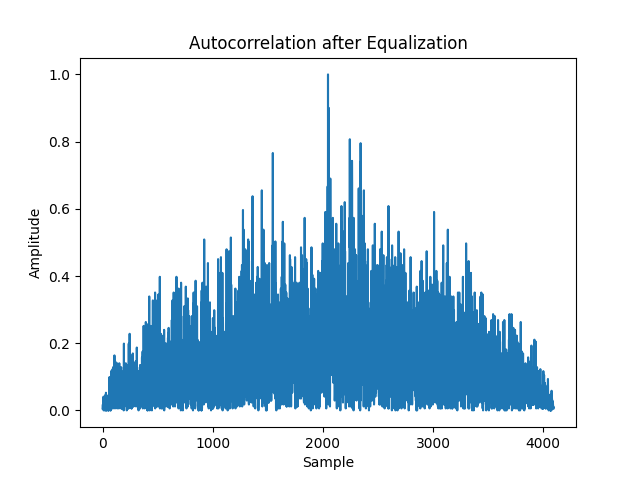
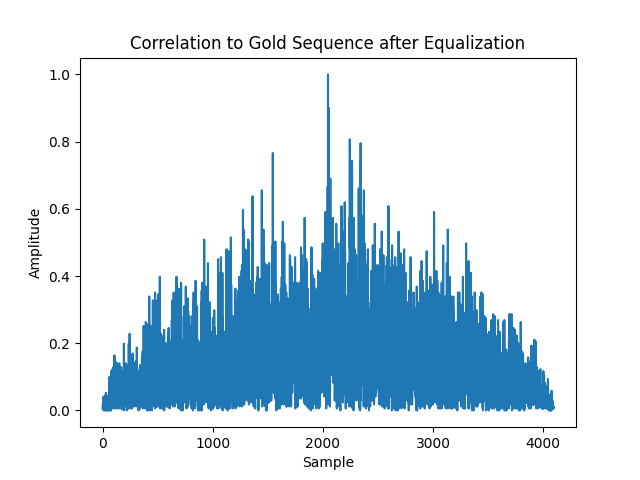
Update readme, add images for documentation, and update plot titles

Changed region(s): [[0.1875, 0.0625, 0.8125, 0.125]]

diff --git a/scripts/plot.py b/scripts/plot.py
@@ -110,7 +110,7 @@ if __name__ == "__main__":
     plot_correlation_to_reference(
         "log/equalization_results/before.csv",
         "log/gold_code_ref.csv",
-        "Autocorrelation before Equalization",
+        "Correlation to Gold Sequence before Equalization",
     )
 
     compare_plots(
@@ -124,7 +124,7 @@ if __name__ == "__main__":
     plot_correlation_to_reference(
         "log/equalization_results/after.csv",
         "log/gold_code_ref.csv",
-        "Autocorrelation after Equalization",
+        "Correlation to Gold Sequence after Equalization",
     )
 
     # plot_real_signal("log/channel_impulse_response.csv", "Channel Impulse Response")

diff --git a/README.md b/README.md
@@ -1,36 +1,51 @@
-# ECED6576 Project
+# Implementation of a Full Transmitter, Receiver, and Equalizer System in C
 
-The following readme describes the current state of the ECED6576 project and it's next steps.
+## Introduction
 
-## Work Completed
+This project is an implementation of a full transmitter, receiver, and equalizer system in C. The system is designed to transmit a QAM signal over a channel and then receive and equalize the signal. The system is designed to be modular and can be easily modified to add new features or change existing ones.
 
-### Existing code cleaned up
-- DSP.h and OFDM.h have been converted to DSP.c/h and QAM.c/h.
-- A function from another file in repo to generate gold codes has been added to DSP.
-- Functions have been added for signal struct initialization.
-- Irrelevant functions have been removed.
+## Transmitter
 
-### New code added for logging
-- Functions were written to log all custom signal structs to a file that can then be read by a python script to plot the signals.
+![Transmitter](img/TX.png)
 
-### Python logging script has been written
-- The python script reads the log file and plots the signals (complex or real).
+The transmitter is responsible for generating a QAM signal and saving it to a .wav file to be transmitted over a channel. The transmitter generates a Gold sequence to be used as a training sequence for the receiver. The transmitter then generates a QAM signal using the Gold sequence and saves it to qam.wav.
 
-## Plots
+## Channel
 
-### Gold code
+![Channel](img/test_Setup.png)
 
-![Gold code](img/gold.png)
+The channel exists between a small speaker and a larger GTI hydrophone. The channel is not inside an anechoic chamber, so there is a lot of noise present in the channel. The following plots show the signal at the transmitter and receibver, the signal FFT at the transmitter and receiver, and the signal correlation to the Gold sequence at the transmitter and receiver.
 
-### Gold code autocorrelation
+![ChannelTxandRx](img/channel_tx_rx.png)
 
-![Gold code autocorrelation](img/gold_autocorr.png)
+## Receiver
 
-### QAM signal
+![Receiver](img/RX.png)
 
-![QAM signal](img/qam.png)
+The receiver is responsible for receiving the QAM signal from the channel and equalizing it. The receiver uses the Gold sequence to estimate the channel response and then uses this estimate to equalize the received signal. The receiver then saves the equalized signal to equalized.wav.
 
-## Next Steps
-- Model channel and add realistic noise to the signal.
-- Implement equalizer.
-- Make changes for physical hardware.
+## Equalizer
+
+The equalizer is responsible for equalizing the received signal. The equalizer uses the Gold sequence to estimate the channel response and then uses this estimate to equalize the received signal. The goal of this equalization is to remove the effects of the channel and recover the original QAM signal. Correlation to the Gold Sequence is used to visually show the effectiveness of the equalization because the signal is very dense.
+
+## Initial Results
+
+![BeforeEqualization](img/autocorrelation_before_equalization.png)
+
+![AfterEqualization](img/autocorrelation_after_equalization.png)
+
+The current metric outside of correlation used to tell the effectiveness of the equalization is the error between the received signal and the transmitted signal. The error is calculated as the sum of the absolute difference between the received signal and the transmitted signal. The error is calculated in the following line of Python as follows:
+
+```python
+error = np.sum(np.abs(received_signal - transmitted_signal))
+```
+Result for the above plots:
+```
+Error between log/gold_code_ref.csv and log/equalization_results/before.csv: 2056.0
+Error between log/gold_code_ref.csv and log/equalization_results/after.csv: 1989.0
+```
+The error is calculated to be 2056.0 before equalization and 1989.0 after equalization. The error is reduced by 67.0 after equalization.
+
+## Future Work
+
+- Implement a more advanced equalizer
